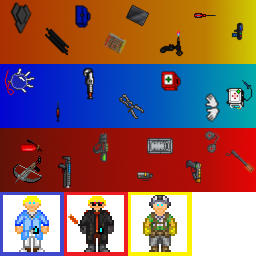
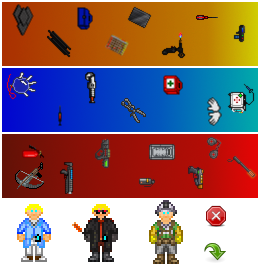
Добавлено окончание игры

diff --git a/match3station/Classes/uiObjects/EndGameUi.cpp b/match3station/Classes/uiObjects/EndGameUi.cpp
@@ -1,0 +1,48 @@
+#include "EndGameUi.h"
+
+#include "gameUi.h"
+#include "HelloWorldScene.h"
+USING_NS_CC;
+
+EndGameUi::EndGameUi()
+{
+    SpriteFrameCache* cache = SpriteFrameCache::getInstance();
+    SpriteFrame* frame = nullptr;
+    frame = cache->getSpriteFrameByName("./reset");
+
+    auto buttonReset = MenuItemImage::create();
+    buttonReset->setNormalSpriteFrame(cache->getSpriteFrameByName("./reset"));
+    buttonReset->setCallback(CC_CALLBACK_1(EndGameUi::resetButtonCallback, this));
+    buttonReset->setScale(3.0f);
+
+    auto buttonExit = MenuItemImage::create();
+    buttonExit->setNormalSpriteFrame(cache->getSpriteFrameByName("./exit"));
+    buttonExit->setCallback(CC_CALLBACK_1(EndGameUi::exitButtonCallback, this));
+    buttonExit->setScale(3.0f);
+
+    auto screenSize = Director::getInstance()->getWinSize();
+
+    buttonReset->setPosition({ screenSize.width / 2.0f - 100.0f, screenSize.height / 2.0f });
+    buttonExit->setPosition({ screenSize.width / 2.0f + 100.0f, screenSize.height / 2.0f });
+
+    auto menu = Menu::create(buttonReset, buttonExit, NULL);
+    menu->setPosition(Vec2::ZERO);
+    this->addChild(menu, 1);
+}
+
+EndGameUi::~EndGameUi()
+{
+
+}
+
+void EndGameUi::resetButtonCallback(Ref* pSender)
+{
+    auto newScene = HelloWorld::createScene();
+    Director::getInstance()->replaceScene(newScene);
+
+}
+
+void EndGameUi::exitButtonCallback(Ref* pSender)
+{
+    Director::getInstance()->end();
+}

diff --git a/match3station/Classes/gameObjects/GameMode.cpp b/match3station/Classes/gameObjects/GameMode.cpp
@@ -7,6 +7,7 @@
 #include <random>
 #include <stdexcept>
 #include "GameConfig.h"
+#include "uiObjects/EndGameUi.h"
 
 
 
@@ -307,6 +308,7 @@ void GameMode::removeLockFigure()
 		updateCollum();
 		replaceDeleted();
 		generateEvents();
+		checkScore();
 		gameUi.updateGameUi(score);
 	}
 }
@@ -318,4 +320,23 @@ void GameMode::checkFigureFromSet()
 		checkCombination(figure);
 	}
 	needCheckFigureSet.clear();
+}
+
+void GameMode::endGame()
+{
+	auto endGame = EndGameUi::create();
+	addChild(endGame);
+}
+
+void GameMode::checkScore()
+{
+	if	(
+			score.crewHealth <= 0 ||
+			score.hullCondition <= 0 ||
+			score.order <= 0
+		)
+	{
+		addLockFigure();
+		endGame();
+	}
 }

diff --git a/match3station/Classes/gameObjects/GameMode.h b/match3station/Classes/gameObjects/GameMode.h
@@ -58,5 +58,8 @@ protected:
 	int lockFigureCount = 0;	///< Костыль для подсчёта фигур которые двигаются
 	std::set<point2i> needCheckFigureSet; ///< Дерево, для хранения координат фигур которые нужно проверить
 	void checkFigureFromSet();		///< Проверить все фигуры в дереве
+
+	void endGame();	///< Вызывается по завершению игры
+	void checkScore(); ///< Проверяет кол-во очков
 };
 ///@}
